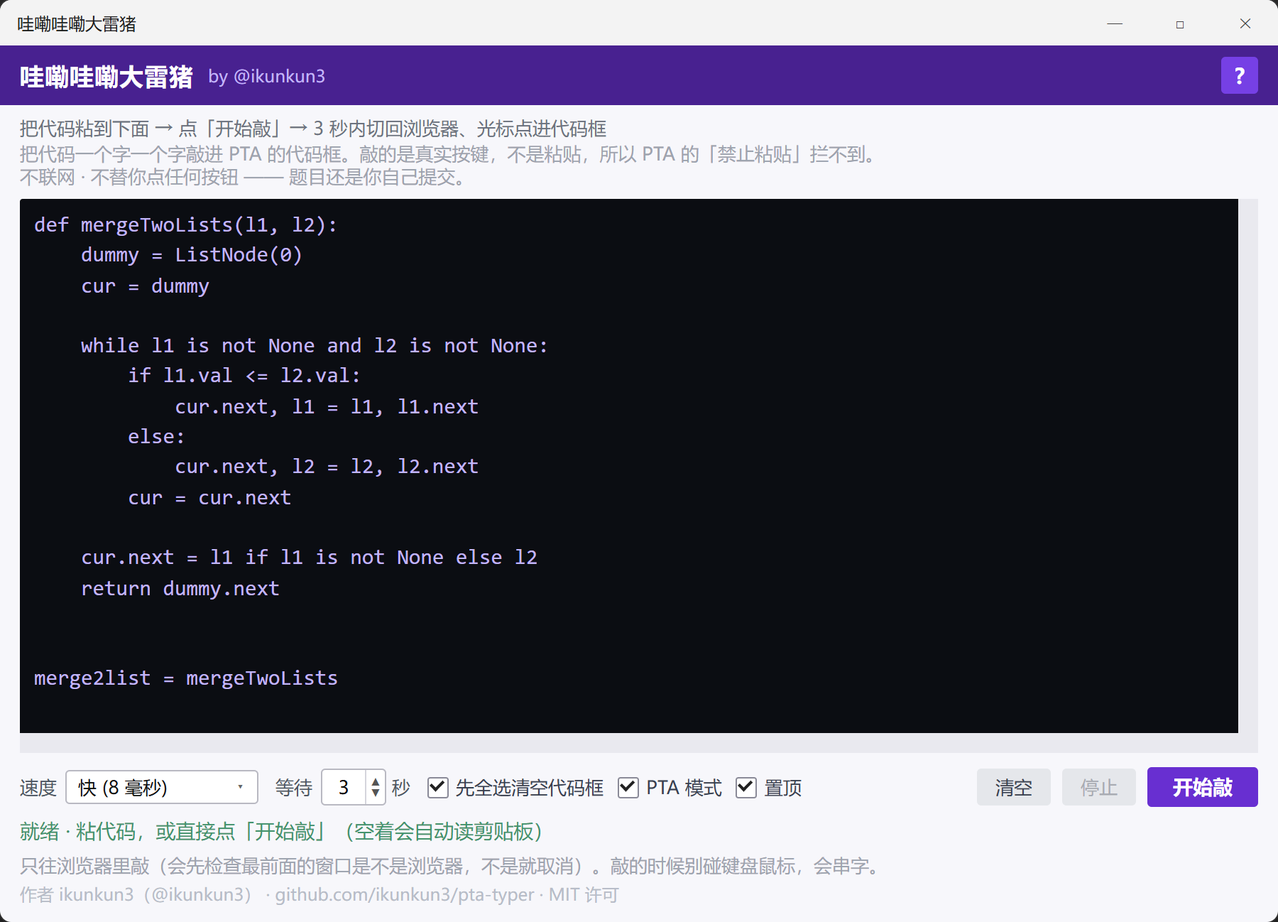
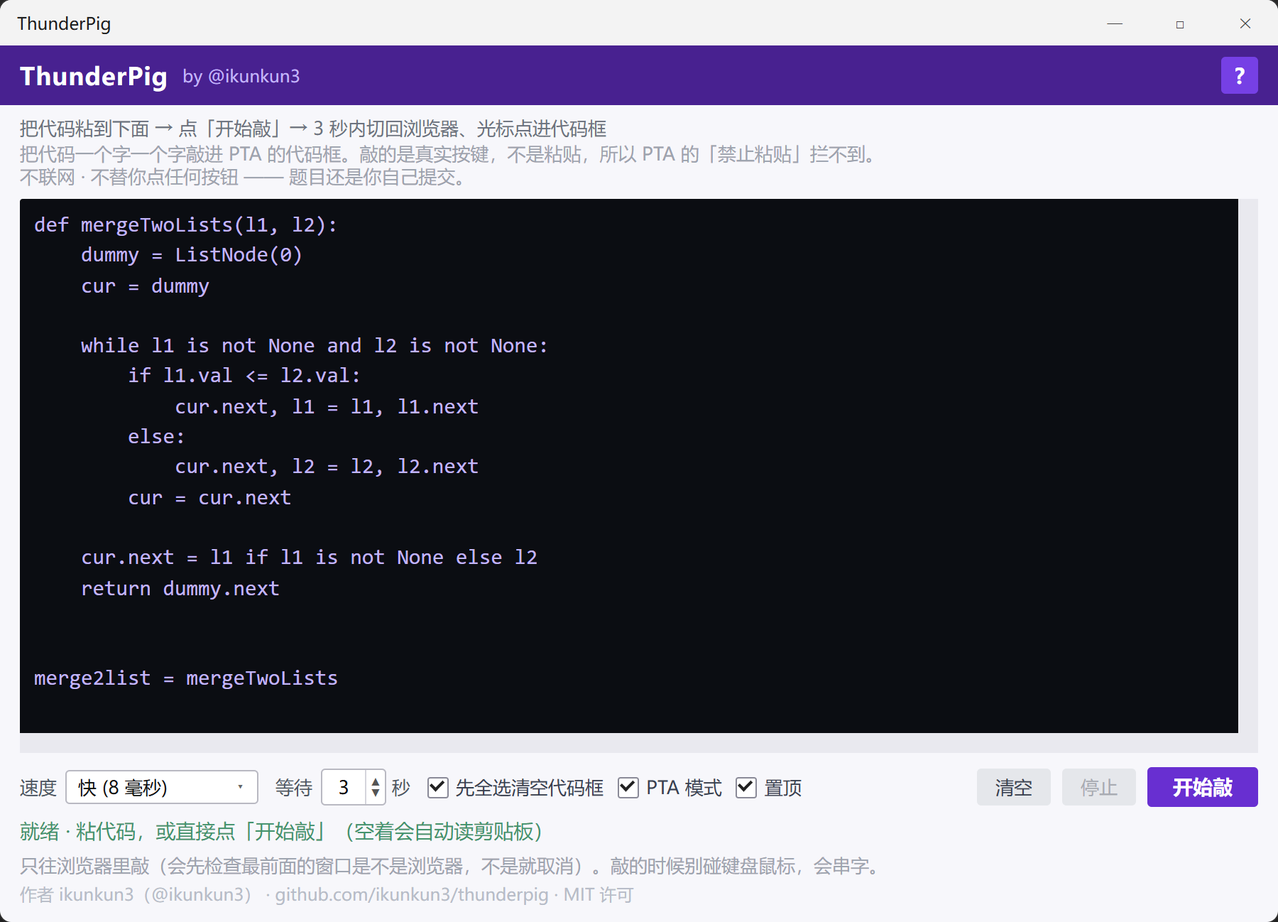
改名 ThunderPig：中文全名还是「哇嘞哇嘞大雷猪」
ThunderPig = 大雷（thunder）+ 猪（pig），照着念就是那个梗。

源码 / 脚本
- pta_typer_gui.py → thunderpig.py（APP_TITLE / CFG_DIR 改 ThunderPig）
- pta-typer.user.js → thunderpig.user.js（PANEL_ID / 存储键 / __THUNDERPIG__）
- 配置目录两级迁移：ThunderPig ← 哇嘞哇嘞大雷猪 ← PTA逐字输入
- 油猴 localStorage 老键 readStore() 回退搬迁，老用户不丢设置

界面 / 文档
- 窗口标题、卡片标题、? 帮助、底部署名全换
- 安装页 / 新手教程 / 两份说明 / 生成脚本里的名字与链接
- README 标题改成 ThunderPig · PTA 逐字输入，说明名字来历
- docs/exe-ui.source.html 重画并重截 exe-ui.png

契约 208 项 · 基线 611 项 · 夹具 26 / 23 全过

Changed region(s): [[0.0, 0.0616, 0.2489, 0.0924], [0.3422, 0.9553, 0.4978, 0.9861], [0.0, 0.0, 0.1244, 0.0308]]

diff --git a/安装书签.html b/安装书签.html
@@ -105,7 +105,7 @@ li b{color:var(--fg)}
 <div class="step">
   <h2><span class="n">2</span>把下面这个紫色按钮拖到书签栏上</h2>
   <p>按住它别松手，拖到刚才那条横栏上，然后松手。</p>
-  <p><a class="drag" href="javascript:void%28function%28%29%7B%28function%20%28%29%20%7B%0A%27use%20strict%27%3B%0Avar%20ID%20%3D%20%27pta-bm%27%3B%0Avar%20prev%20%3D%20document.getElementById%28ID%29%3B%0Aif%20%28prev%29%20%7B%20prev.parentNode.removeChild%28prev%29%3B%20return%3B%20%7D%0Avar%20P%20%3D%20%7B%0Apaste%3A%20%27%3Cpath%20d%3D%22M11%2014h10%22%2F%3E%3Cpath%20d%3D%22M16%204h2a2%202%200%200%201%202%202v1.344%22%2F%3E%27%0A%2B%20%27%3Cpath%20d%3D%22m17%2018%204-4-4-4%22%2F%3E%3Cpath%20d%3D%22M8%204H6a2%202%200%200%200-2%202v14a2%202%200%200%200%202%202%27%0A%2B%20%27h12a2%202%200%200%200%201.793-1.113%22%2F%3E%3Crect%20x%3D%228%22%20y%3D%222%22%20width%3D%228%22%20height%3D%224%22%20rx%3D%221%22%2F%3E%27%2C%0Aclose%3A%20%27%3Cpath%20d%3D%22M18%206%206%2018%22%2F%3E%3Cpath%20d%3D%22m6%206%2012%2012%22%2F%3E%27%2C%0Aok%3A%20%27%3Ccircle%20cx%3D%2212%22%20cy%3D%2212%22%20r%3D%2210%22%2F%3E%3Cpath%20d%3D%22m16%209-5.5%205.5L8%2012%22%2F%3E%27%2C%0Abad%3A%20%27%3Ccircle%20cx%3D%2212%22%20cy%3D%2212%22%20r%3D%2210%22%2F%3E%3Cline%20x1%3D%2212%22%20x2%3D%2212%22%20y1%3D%228%22%20y2%3D%2212%22%2F%3E%27%0A%2B%20%27%3Cline%20x1%3D%2212%22%20x2%3D%2212.01%22%20y1%3D%2216%22%20y2%3D%2216%22%2F%3E%27%2C%0Ainfo%3A%20%27%3Ccircle%20cx%3D%2212%22%20cy%3D%2212%22%20r%3D%2210%22%2F%3E%3Cpath%20d%3D%22M12%2016v-4%22%2F%3E%3Cpath%20d%3D%22M12%208h.01%22%2F%3E%27%2C%0Akey%3A%20%27%3Cpath%20d%3D%22M10%208h.01%22%2F%3E%3Cpath%20d%3D%22M12%2012h.01%22%2F%3E%3Cpath%20d%3D%22M14%208h.01%22%2F%3E%3Cpath%20d%3D%22M16%2012h.01%22%2F%3E%27%0A%2B%20%27%3Cpath%20d%3D%22M18%208h.01%22%2F%3E%3Cpath%20d%3D%22M6%208h.01%22%2F%3E%3Cpath%20d%3D%22M7%2016h10%22%2F%3E%3Cpath%20d%3D%22M8%2012h.01%22%2F%3E%27%0A%2B%20%27%3Crect%20width%3D%2220%22%20height%3D%2216%22%20x%3D%222%22%20y%3D%224%22%20rx%3D%222%22%2F%3E%27%0A%7D%3B%0Afunction%20svg%28d%2C%20size%29%20%7B%0Areturn%20%27%3Csvg%20viewBox%3D%220%200%2024%2024%22%20width%3D%22%27%20%2B%20size%20%2B%20%27%22%20height%3D%22%27%20%2B%20size%20%2B%20%27%22%20fill%3D%22none%22%20%27%0A%2B%20%27stroke%3D%22currentColor%22%20stroke-width%3D%222%22%20stroke-linecap%3D%22round%22%20stroke-linejoin%3D%22round%22%20%27%0A%2B%20%27aria-hidden%3D%22true%22%3E%27%20%2B%20d%20%2B%20%27%3C%2Fsvg%3E%27%3B%0A%7D%0Avar%20CSS%20%3D%20%5B%0A%27%23pta-bm%7Bposition%3Afixed%3Binset%3A0%3Bz-index%3A2147483000%3Bdisplay%3Aflex%3Balign-items%3Acenter%3B%27%2C%0A%27justify-content%3Acenter%3Bbackground%3Argba%288%2C8%2C14%2C.66%29%3B-webkit-backdrop-filter%3Ablur%287px%29%3B%27%2C%0A%27backdrop-filter%3Ablur%287px%29%3Banimation%3Apta-bm-in%20.16s%20ease-out%7D%27%2C%0A%27%23pta-bm%20.box%7Bposition%3Arelative%3Bwidth%3A780px%3Bmax-width%3A92vw%3Boverflow%3Ahidden%3B%27%2C%0A%27background%3Alinear-gradient%28180deg%2C%23201748%200%25%2C%23160f30%2062%25%2C%23120c28%20100%25%29%3B%27%2C%0A%27border%3A1px%20solid%20rgba%28139%2C92%2C246%2C.42%29%3Bborder-radius%3A18px%3B%27%2C%0A%27box-shadow%3A0%2032px%2080px%20-12px%20rgba%280%2C0%2C0%2C.8%29%2C0%200%200%201px%20rgba%28255%2C255%2C255%2C.04%29%20inset%2C%27%2C%0A%270%201px%200%20rgba%28255%2C255%2C255%2C.09%29%20inset%3B%27%2C%0A%27font%3A14px%2F1.62%20%22Microsoft%20YaHei%22%2Csystem-ui%2C-apple-system%2Csans-serif%3Bcolor%3A%23ece7ff%3B%27%2C%0A%27animation%3Apta-bm-pop%20.18s%20cubic-bezier%28.2%2C.9%2C.3%2C1.1%29%7D%27%2C%0A%27%23pta-bm%20.box%3A%3Abefore%7Bcontent%3A%22%22%3Bposition%3Aabsolute%3Bleft%3A0%3Bright%3A0%3Btop%3A0%3Bheight%3A2px%3B%27%2C%0A%27background%3Alinear-gradient%2890deg%2C%237c3aed%2C%23a78bfa%2042%25%2C%2322d3ee%20100%25%29%3Bopacity%3A.95%7D%27%2C%0A%27%23pta-bm%20.hd%7Bdisplay%3Aflex%3Balign-items%3Acenter%3Bgap%3A11px%3Bpadding%3A15px%2015px%2012px%2016px%7D%27%2C%0A%27%23pta-bm%20.ico%7Bdisplay%3Aflex%3Balign-items%3Acenter%3Bjustify-content%3Acenter%3Bflex%3A0%200%2036px%3B%27%2C%0A%27width%3A36px%3Bheight%3A36px%3Bborder-radius%3A11px%3Bcolor%3A%23fff%3B%27%2C%0A%27background%3Alinear-gradient%28145deg%2C%238b5cf6%2C%236d28d9%29%3B%27%2C%0A%27box-shadow%3A0%206px%2016px%20-4px%20rgba%28124%2C58%2C237%2C.75%29%2C0%201px%200%20rgba%28255%2C255%2C255%2C.28%29%20inset%7D%27%2C%0A%27%23pta-bm%20.ttl%7Bflex%3A1%3Bmin-width%3A0%7D%27%2C%0A%27%23pta-bm%20.ttl%20b%7Bdisplay%3Ablock%3Bfont-size%3A15px%3Bline-height%3A1.3%3Bfont-weight%3A600%3B%27%2C%0A%27letter-spacing%3A.2px%3Bcolor%3A%23f4f0ff%7D%27%2C%0A%27%23pta-bm%20.ttl%20i%7Bdisplay%3Ablock%3Bfont-style%3Anormal%3Bfont-size%3A11.5px%3Bline-height%3A1.4%3B%27%2C%0A%27color%3A%239b93c4%3Bmargin-top%3A2px%3Bwhite-space%3Anowrap%3Boverflow%3Ahidden%3Btext-overflow%3Aellipsis%7D%27%2C%0A%27%23pta-bm%20.x%7Bdisplay%3Aflex%3Balign-items%3Acenter%3Bjustify-content%3Acenter%3Bflex%3A0%200%2030px%3B%27%2C%0A%27width%3A30px%3Bheight%3A30px%3Bpadding%3A0%3Bborder%3A0%3Bborder-radius%3A9px%3Bcursor%3Apointer%3B%27%2C%0A%27background%3Argba%28255%2C255%2C255%2C.05%29%3Bcolor%3A%23b9b1de%3Btransition%3Abackground%20.14s%2Ccolor%20.14s%7D%27%2C%0A%27%23pta-bm%20.x%3Ahover%7Bbackground%3Argba%28255%2C255%2C255%2C.12%29%3Bcolor%3A%23fff%7D%27%2C%0A%27%23pta-bm%20textarea%7Bdisplay%3Ablock%3Bwidth%3Acalc%28100%25%20-%2032px%29%3Bmargin%3A0%2016px%3Bheight%3A40vh%3B%27%2C%0A%27min-height%3A180px%3Bbox-sizing%3Aborder-box%3Bpadding%3A12px%2013px%3Bresize%3Avertical%3Boutline%3Anone%3B%27%2C%0A%27background%3A%230a0c12%3Bcolor%3A%23c9bbff%3Bborder%3A1px%20solid%20%23362a63%3Bborder-radius%3A12px%3B%27%2C%0A%27font%3A13px%2F1.62%20Consolas%2C%22Cascadia%20Mono%22%2Cmonospace%3B%27%2C%0A%27box-shadow%3A0%201px%200%20rgba%28255%2C255%2C255%2C.04%29%20inset%2C0%2010px%2026px%20-18px%20%23000%20inset%3B%27%2C%0A%27transition%3Aborder-color%20.14s%2Cbox-shadow%20.14s%7D%27%2C%0A%27%23pta-bm%20textarea%3A%3Aplaceholder%7Bcolor%3A%23635c86%7D%27%2C%0A%27%23pta-bm%20textarea%3Afocus%7Bborder-color%3A%238b5cf6%3B%27%2C%0A%27box-shadow%3A0%200%200%203px%20rgba%28124%2C58%2C237%2C.22%29%2C0%2010px%2026px%20-18px%20%23000%20inset%7D%27%2C%0A%27%23pta-bm%20.row%7Bdisplay%3Aflex%3Balign-items%3Acenter%3Bgap%3A10px%3Bflex-wrap%3Awrap%3Bpadding%3A12px%2016px%200%7D%27%2C%0A%27%23pta-bm%20button%7Bfont%3Ainherit%7D%27%2C%0A%27%23pta-bm%20.go%7Bdisplay%3Ainline-flex%3Balign-items%3Acenter%3Bgap%3A7px%3Bborder%3A0%3Bcursor%3Apointer%3B%27%2C%0A%27padding%3A9px%2017px%209px%2014px%3Bborder-radius%3A10px%3Bfont-size%3A14px%3Bfont-weight%3A600%3Bcolor%3A%23fff%3B%27%2C%0A%27background%3Alinear-gradient%28180deg%2C%238b5cf6%2C%237134e0%29%3B%27%2C%0A%27box-shadow%3A0%206px%2016px%20-6px%20rgba%28124%2C58%2C237%2C.9%29%2C0%201px%200%20rgba%28255%2C255%2C255%2C.3%29%20inset%3B%27%2C%0A%27transition%3Atransform%20.1s%2Cbox-shadow%20.14s%2Cfilter%20.14s%7D%27%2C%0A%27%23pta-bm%20.go%3Ahover%7Bfilter%3Abrightness%281.08%29%3Bbox-shadow%3A0%208px%2022px%20-6px%20rgba%28124%2C58%2C237%2C1%29%2C%27%2C%0A%270%201px%200%20rgba%28255%2C255%2C255%2C.32%29%20inset%7D%27%2C%0A%27%23pta-bm%20.go%3Aactive%7Btransform%3AtranslateY%281px%29%7D%27%2C%0A%27%23pta-bm%20.go%20svg%7Bopacity%3A.95%7D%27%2C%0A%27%23pta-bm%20.kbd%7Bdisplay%3Ainline-flex%3Balign-items%3Acenter%3Bgap%3A6px%3Bpadding%3A5px%2010px%3B%27%2C%0A%27border-radius%3A8px%3Bbackground%3Argba%28255%2C255%2C255%2C.055%29%3Bborder%3A1px%20solid%20rgba%28255%2C255%2C255%2C.08%29%3B%27%2C%0A%27color%3A%23a9a1cf%3Bfont-size%3A11.5px%3Bwhite-space%3Anowrap%7D%27%2C%0A%27%23pta-bm%20.kbd%20code%7Bfont%3A11.5px%20Consolas%2Cmonospace%3Bcolor%3A%23d6ccff%7D%27%2C%0A%27%23pta-bm%20.hint%7Bcolor%3A%237b749c%3Bfont-size%3A11.5px%3Bmargin-left%3Aauto%3Bwhite-space%3Anowrap%7D%27%2C%0A%27%23pta-bm%20.st%7Bdisplay%3Aflex%3Balign-items%3Acenter%3Bgap%3A7px%3Bmargin%3A10px%2016px%2014px%3Bpadding%3A9px%2012px%3B%27%2C%0A%27border-radius%3A10px%3Bfont-size%3A12px%3Bline-height%3A1.5%3Bcolor%3A%23a49cc6%3B%27%2C%0A%27background%3Argba%28255%2C255%2C255%2C.04%29%3Bborder%3A1px%20solid%20rgba%28255%2C255%2C255%2C.06%29%3B%27%2C%0A%27transition%3Acolor%20.14s%2Cbackground%20.14s%2Cborder-color%20.14s%7D%27%2C%0A%27%23pta-bm%20.st%20svg%7Bflex%3A0%200%2015px%3Bwidth%3A15px%3Bheight%3A15px%7D%27%2C%0A%27%23pta-bm%20.stx%7Bmin-width%3A0%7D%27%2C%0A%27%23pta-bm%20.st.ok%7Bcolor%3A%236ee7b7%3Bbackground%3Argba%2816%2C185%2C129%2C.11%29%3Bborder-color%3Argba%2816%2C185%2C129%2C.3%29%7D%27%2C%0A%27%23pta-bm%20.st.bad%7Bcolor%3A%23fca5a5%3Bbackground%3Argba%28239%2C68%2C68%2C.11%29%3Bborder-color%3Argba%28239%2C68%2C68%2C.3%29%7D%27%2C%0A%27%23pta-bm%20.crd%7Bpadding%3A0%2016px%2012px%3Bfont-size%3A11px%3Bcolor%3A%235e5880%3Bletter-spacing%3A.2px%7D%27%2C%0A%27%23pta-bm%20.crd%20b%7Bcolor%3A%238b83b5%3Bfont-weight%3A600%7D%27%2C%0A%27%40keyframes%20pta-bm-in%7Bfrom%7Bopacity%3A0%7Dto%7Bopacity%3A1%7D%7D%27%2C%0A%27%40keyframes%20pta-bm-pop%7Bfrom%7Bopacity%3A0%3Btransform%3AtranslateY%2810px%29%20scale%28.985%29%7D%27%2C%0A%27to%7Bopacity%3A1%3Btransform%3Anone%7D%7D%27%2C%0A%27%40media%20%28prefers-reduced-motion%3Areduce%29%7B%23pta-bm%2C%23pta-bm%20.box%7Banimation%3Anone%7D%7D%27%0A%5D.join%28%27%27%29%3B%0Aif%20%28%21document.getElementById%28%27pta-bm-style%27%29%29%20%7B%0Avar%20style%20%3D%20document.createElement%28%27style%27%29%3B%0Astyle.id%20%3D%20%27pta-bm-style%27%3B%0Astyle.textContent%20%3D%20CSS%3B%0Adocument.head.appendChild%28style%29%3B%0A%7D%0Avar%20wrap%20%3D%20document.createElement%28%27div%27%29%3B%0Awrap.id%20%3D%20ID%3B%0Awrap.setAttribute%28%27role%27%2C%20%27dialog%27%29%3B%0Awrap.setAttribute%28%27aria-label%27%2C%20%27%E6%8A%8A%E4%BB%A3%E7%A0%81%E5%86%99%E8%BF%9B%20PTA%20%E4%BB%A3%E7%A0%81%E6%A1%86%27%29%3B%0Awrap.innerHTML%20%3D%20%27%3Cdiv%20class%3D%22box%22%3E%27%0A%2B%20%27%3Cdiv%20class%3D%22hd%22%3E%3Cspan%20class%3D%22ico%22%3E%27%20%2B%20svg%28P.paste%2C%2019%29%20%2B%20%27%3C%2Fspan%3E%27%0A%2B%20%27%3Cdiv%20class%3D%22ttl%22%3E%3Cb%3EPTA%20%E9%80%90%E5%AD%97%E8%BE%93%E5%85%A5%3C%2Fb%3E%3Ci%3E%E6%8A%8A%E4%BB%A3%E7%A0%81%E7%B2%98%E8%BF%9B%E6%9D%A5%EF%BC%8C%E5%AE%83%E6%9B%BF%E4%BD%A0%E4%B8%80%E4%B8%AA%E5%AD%97%E4%B8%80%E4%B8%AA%E5%AD%97%E5%86%99%E8%BF%9B%E5%8E%BB%3C%2Fi%3E%3C%2Fdiv%3E%27%0A%2B%20%27%3Cbutton%20class%3D%22x%22%20type%3D%22button%22%20title%3D%22%E5%85%B3%E9%97%AD%EF%BC%88Esc%EF%BC%89%22%3E%27%20%2B%20svg%28P.close%2C%2016%29%20%2B%20%27%3C%2Fbutton%3E%3C%2Fdiv%3E%27%0A%2B%20%27%3Ctextarea%20spellcheck%3D%22false%22%20placeholder%3D%22%E6%8A%8A%E4%BB%A3%E7%A0%81%E7%B2%98%E5%88%B0%E8%BF%99%E9%87%8C%EF%BC%88Ctrl%2BV%EF%BC%89%EF%BC%8C%E7%84%B6%E5%90%8E%E6%8C%89%20Ctrl%2BEnter%22%3E%3C%2Ftextarea%3E%27%0A%2B%20%27%3Cdiv%20class%3D%22row%22%3E%3Cbutton%20class%3D%22go%22%20type%3D%22button%22%3E%27%20%2B%20svg%28P.paste%2C%2015%29%20%2B%20%27%E5%86%99%E8%BF%9B%E4%BB%A3%E7%A0%81%E6%A1%86%3C%2Fbutton%3E%27%0A%2B%20%27%3Cspan%20class%3D%22kbd%22%3E%27%20%2B%20svg%28P.key%2C%2013%29%20%2B%20%27%3Ccode%3ECtrl%3C%2Fcode%3E%2B%3Ccode%3EEnter%3C%2Fcode%3E%3C%2Fspan%3E%27%0A%2B%20%27%3Cspan%20class%3D%22hint%22%3E%E5%8F%AA%E5%86%99%E5%AD%97%EF%BC%8C%E4%B8%8D%E7%82%B9%E4%BF%9D%E5%AD%98%E3%80%81%E4%B8%8D%E7%82%B9%E6%8F%90%E4%BA%A4%3C%2Fspan%3E%3C%2Fdiv%3E%27%0A%2B%20%27%3Cdiv%20class%3D%22st%22%3E%3Cspan%20class%3D%22sic%22%3E%27%20%2B%20svg%28P.info%2C%2015%29%20%2B%20%27%3C%2Fspan%3E%27%0A%2B%20%27%3Cspan%20class%3D%22stx%22%3E%E7%B2%98%E5%AE%8C%E6%8C%89%20Ctrl%2BEnter%20%E7%9B%B4%E6%8E%A5%E5%86%99%3C%2Fspan%3E%3C%2Fdiv%3E%27%0A%2B%20%27%3Cdiv%20class%3D%22crd%22%3Eby%20%3Cb%3E%40ikunkun3%3C%2Fb%3E%20%C2%B7%20MIT%20%C2%B7%20github.com%2Fikunkun3%2Fpta-typer%3C%2Fdiv%3E%27%0A%2B%20%27%3C%2Fdiv%3E%27%3B%0Adocument.body.appendChild%28wrap%29%3B%0Avar%20ta%20%3D%20wrap.querySelector%28%27textarea%27%29%3B%0Avar%20status%20%3D%20wrap.querySelector%28%27.st%27%29%3B%0Avar%20statusIco%20%3D%20wrap.querySelector%28%27.sic%27%29%3B%0Avar%20statusTxt%20%3D%20wrap.querySelector%28%27.stx%27%29%3B%0Afunction%20say%28text%2C%20cls%29%20%7B%0AstatusTxt.textContent%20%3D%20text%3B%0Astatus.className%20%3D%20%27st%27%20%2B%20%28cls%20%3F%20%27%20%27%20%2B%20cls%20%3A%20%27%27%29%3B%0AstatusIco.innerHTML%20%3D%20svg%28cls%20%3D%3D%3D%20%27ok%27%20%3F%20P.ok%20%3A%20cls%20%3D%3D%3D%20%27bad%27%20%3F%20P.bad%20%3A%20P.info%2C%2015%29%3B%0A%7D%0Afunction%20close%28%29%20%7B%20if%20%28wrap.parentNode%29%20wrap.parentNode.removeChild%28wrap%29%3B%20%7D%0Afunction%20findEditor%28%29%20%7B%0Avar%20all%20%3D%20%5B%5D.slice.call%28document.querySelectorAll%28%27.cm-content%5Bcontenteditable%3D%22true%22%5D%27%29%29%3B%0Afor%20%28var%20i%20%3D%200%3B%20i%20%3C%20all.length%3B%20i%2B%2B%29%20%7B%0Avar%20c%20%3D%20all%5Bi%5D%3B%0Aif%20%28c.closest%28%27%23%27%20%2B%20ID%29%29%20continue%3B%0Aif%20%28%21c.getBoundingClientRect%28%29.width%29%20continue%3B%0Aif%20%28c.closest%28%27%5Bclass%2A%3D%22AnswerForm%22%5D%27%29%29%20return%20c%3B%0A%7D%0Avar%20areas%20%3D%20%5B%5D.slice.call%28document.querySelectorAll%28%27%5Bclass%2A%3D%22AnswerForm%22%5D%20textarea%27%29%29%3B%0Afor%20%28var%20j%20%3D%200%3B%20j%20%3C%20areas.length%3B%20j%2B%2B%29%20%7B%0Aif%20%28%21areas%5Bj%5D.closest%28%27%23%27%20%2B%20ID%29%29%20return%20areas%5Bj%5D%3B%0A%7D%0Areturn%20null%3B%0A%7D%0Afunction%20viewOf%28c%29%20%7B%0Aif%20%28c.cmTile%20%26%26%20c.cmTile.view%29%20return%20c.cmTile.view%3B%0Aif%20%28c.cmView%20%26%26%20c.cmView.view%29%20return%20c.cmView.view%3B%0Areturn%20null%3B%0A%7D%0Afunction%20writeByExec%28c%2C%20code%29%20%7B%0Ac.focus%28%29%3B%0Aexecute%28%27selectAll%27%29%3B%0Adocument.execCommand%28%27delete%27%2C%20false%2C%20null%29%3B%0Avar%20lines%20%3D%20code.split%28%27%5Cn%27%29%3B%0Awhile%20%28lines.length%20%3E%201%20%26%26%20lines%5Blines.length%20-%201%5D%20%3D%3D%3D%20%27%27%29%20lines.pop%28%29%3B%0Afor%20%28var%20i%20%3D%200%3B%20i%20%3C%20lines.length%3B%20i%2B%2B%29%20%7B%0Aif%20%28i%29%20%7B%0Aif%20%28%21document.execCommand%28%27insertLineBreak%27%2C%20false%2C%20null%29%29%20%7B%0Adocument.execCommand%28%27insertParagraph%27%2C%20false%2C%20null%29%3B%0A%7D%0A%7D%0Aif%20%28lines%5Bi%5D%29%20document.execCommand%28%27insertText%27%2C%20false%2C%20lines%5Bi%5D%29%3B%0A%7D%0Ac.dispatchEvent%28new%20Event%28%27input%27%2C%20%7B%20bubbles%3A%20true%20%7D%29%29%3B%0Areturn%20c.textContent%20%7C%7C%20%27%27%3B%0A%7D%0Afunction%20execute%28cmd%29%20%7B%0Atry%20%7B%20document.execCommand%28cmd%2C%20false%2C%20null%29%3B%20%7D%20catch%20%28e%29%20%7B%20%20%7D%0A%7D%0Afunction%20norm%28s%29%20%7B%0Areturn%20String%28s%20%7C%7C%20%27%27%29%0A.replace%28%2F%5Cr%5Cn%3F%2Fg%2C%20%27%5Cn%27%29%0A.replace%28%2F%5B%5Cu00a0%5Cu2007%5Cu202f%5D%2Fg%2C%20%27%20%27%29%0A.split%28%27%5Cn%27%29.map%28function%20%28l%29%20%7B%20return%20l.replace%28%2F%5Cs%2B%24%2F%2C%20%27%27%29%3B%20%7D%29%0A.join%28%27%5Cn%27%29.replace%28%2F%5Cn%7B2%2C%7D%24%2F%2C%20%27%5Cn%27%29.replace%28%2F%5E%5Cn%2B%7C%5Cn%2B%24%2Fg%2C%20%27%27%29%3B%0A%7D%0Afunction%20write%28code%29%20%7B%0Acode%20%3D%20String%28code%20%7C%7C%20%27%27%29.replace%28%2F%5Cr%5Cn%3F%2Fg%2C%20%27%5Cn%27%29%3B%0Aif%20%28%21code.trim%28%29%29%20%7B%20say%28%27%E6%A1%86%E9%87%8C%E6%98%AF%E7%A9%BA%E7%9A%84%27%2C%20%27bad%27%29%3B%20return%3B%20%7D%0Avar%20c%20%3D%20findEditor%28%29%3B%0Aif%20%28%21c%29%20%7B%20say%28%27%E6%B2%A1%E6%89%BE%E5%88%B0%E4%BB%A3%E7%A0%81%E6%A1%86%20%E2%80%94%E2%80%94%20%E5%85%88%E6%89%93%E5%BC%80%E4%B8%80%E9%81%93%E7%BC%96%E7%A8%8B%E9%A2%98%EF%BC%88%E5%87%BD%E6%95%B0%E9%A2%98%EF%BC%89%27%2C%20%27bad%27%29%3B%20return%3B%20%7D%0Avar%20view%20%3D%20viewOf%28c%29%3B%0Aif%20%28view%29%20%7B%0Aview.dispatch%28%7B%20changes%3A%20%7B%20from%3A%200%2C%20to%3A%20view.state.doc.length%2C%20insert%3A%20code%20%7D%20%7D%29%3B%0Avar%20got%20%3D%20view.state.doc.toString%28%29%3B%0Aif%20%28norm%28got%29%20%3D%3D%3D%20norm%28code%29%29%20%7B%0Asay%28%27%E2%9C%93%20%E5%B7%B2%E5%86%99%E5%85%A5%20%27%20%2B%20code.length%20%2B%20%27%20%E4%B8%AA%E5%AD%97%E7%AC%A6%EF%BC%88CodeMirror%EF%BC%89%27%2C%20%27ok%27%29%3B%0Areturn%3B%0A%7D%0A%7D%0Avar%20dom%20%3D%20writeByExec%28c%2C%20code%29%3B%0Aif%20%28norm%28dom%29%20%3D%3D%3D%20norm%28code%29%29%20%7B%0Asay%28%27%E2%9C%93%20%E5%B7%B2%E5%86%99%E5%85%A5%20%27%20%2B%20code.length%20%2B%20%27%20%E4%B8%AA%E5%AD%97%E7%AC%A6%EF%BC%88%E7%BC%96%E8%BE%91%E5%99%A8%E5%85%9C%E5%BA%95%EF%BC%89%27%2C%20%27ok%27%29%3B%0Areturn%3B%0A%7D%0Asay%28%27%E5%86%99%E8%BF%9B%E5%8E%BB%E4%BA%86%E4%BD%86%E8%AF%BB%E5%9B%9E%E6%9D%A5%E5%AF%B9%E4%B8%8D%E4%B8%8A%EF%BC%8C%E8%AF%B7%E8%87%AA%E5%B7%B1%E7%9C%8B%E4%B8%80%E7%9C%BC%E4%BB%A3%E7%A0%81%E6%A1%86%EF%BC%88%27%20%2B%20norm%28dom%29.length%20%2B%20%27%2F%27%20%2B%20norm%28code%29.length%20%2B%20%27%EF%BC%89%27%2C%20%27bad%27%29%3B%0A%7D%0Awrap.querySelector%28%27.go%27%29.onclick%20%3D%20function%20%28%29%20%7B%20write%28ta.value%29%3B%20%7D%3B%0Awrap.querySelector%28%27.x%27%29.onclick%20%3D%20close%3B%0Awrap.onclick%20%3D%20function%20%28e%29%20%7B%20if%20%28e.target%20%3D%3D%3D%20wrap%29%20close%28%29%3B%20%7D%3B%0Ata.addEventListener%28%27keydown%27%2C%20function%20%28e%29%20%7B%0Aif%20%28e.key%20%3D%3D%3D%20%27Enter%27%20%26%26%20%28e.ctrlKey%20%7C%7C%20e.metaKey%29%29%20%7B%0Ae.preventDefault%28%29%3B%0Awrite%28ta.value%29%3B%0A%7D%0A%7D%29%3B%0Adocument.addEventListener%28%27keydown%27%2C%20function%20esc%28e%29%20%7B%0Aif%20%28e.key%20%3D%3D%3D%20%27Escape%27%20%26%26%20wrap.parentNode%29%20%7B%0Adocument.removeEventListener%28%27keydown%27%2C%20esc%29%3B%0Aclose%28%29%3B%0A%7D%0A%7D%29%3B%0Ata.focus%28%29%3B%0A%7D%29%28%29%3B%0A%7D%29%28%29" draggable="true" onclick="return false"><svg class="i" viewBox="0 0 24 24" width="19" height="19" fill="none" stroke="currentColor" stroke-width="2" stroke-linecap="round" stroke-linejoin="round" aria-hidden="true"><rect width="8" height="4" x="8" y="2" rx="1" ry="1"/><path d="M16 4h2a2 2 0 0 1 2 2v14a2 2 0 0 1-2 2H6a2 2 0 0 1-2-2V6a2 2 0 0 1 2-2h2"/><path d="m9 14 2 2 4-4"/></svg>写代码</a></p>
+  <p><a class="drag" href="javascript:void%28function%28%29%7B%28function%20%28%29%20%7B%0A%27use%20strict%27%3B%0Avar%20ID%20%3D%20%27pta-bm%27%3B%0Avar%20prev%20%3D%20document.getElementById%28ID%29%3B%0Aif%20%28prev%29%20%7B%20prev.parentNode.removeChild%28prev%29%3B%20return%3B%20%7D%0Avar%20P%20%3D%20%7B%0Apaste%3A%20%27%3Cpath%20d%3D%22M11%2014h10%22%2F%3E%3Cpath%20d%3D%22M16%204h2a2%202%200%200%201%202%202v1.344%22%2F%3E%27%0A%2B%20%27%3Cpath%20d%3D%22m17%2018%204-4-4-4%22%2F%3E%3Cpath%20d%3D%22M8%204H6a2%202%200%200%200-2%202v14a2%202%200%200%200%202%202%27%0A%2B%20%27h12a2%202%200%200%200%201.793-1.113%22%2F%3E%3Crect%20x%3D%228%22%20y%3D%222%22%20width%3D%228%22%20height%3D%224%22%20rx%3D%221%22%2F%3E%27%2C%0Aclose%3A%20%27%3Cpath%20d%3D%22M18%206%206%2018%22%2F%3E%3Cpath%20d%3D%22m6%206%2012%2012%22%2F%3E%27%2C%0Aok%3A%20%27%3Ccircle%20cx%3D%2212%22%20cy%3D%2212%22%20r%3D%2210%22%2F%3E%3Cpath%20d%3D%22m16%209-5.5%205.5L8%2012%22%2F%3E%27%2C%0Abad%3A%20%27%3Ccircle%20cx%3D%2212%22%20cy%3D%2212%22%20r%3D%2210%22%2F%3E%3Cline%20x1%3D%2212%22%20x2%3D%2212%22%20y1%3D%228%22%20y2%3D%2212%22%2F%3E%27%0A%2B%20%27%3Cline%20x1%3D%2212%22%20x2%3D%2212.01%22%20y1%3D%2216%22%20y2%3D%2216%22%2F%3E%27%2C%0Ainfo%3A%20%27%3Ccircle%20cx%3D%2212%22%20cy%3D%2212%22%20r%3D%2210%22%2F%3E%3Cpath%20d%3D%22M12%2016v-4%22%2F%3E%3Cpath%20d%3D%22M12%208h.01%22%2F%3E%27%2C%0Akey%3A%20%27%3Cpath%20d%3D%22M10%208h.01%22%2F%3E%3Cpath%20d%3D%22M12%2012h.01%22%2F%3E%3Cpath%20d%3D%22M14%208h.01%22%2F%3E%3Cpath%20d%3D%22M16%2012h.01%22%2F%3E%27%0A%2B%20%27%3Cpath%20d%3D%22M18%208h.01%22%2F%3E%3Cpath%20d%3D%22M6%208h.01%22%2F%3E%3Cpath%20d%3D%22M7%2016h10%22%2F%3E%3Cpath%20d%3D%22M8%2012h.01%22%2F%3E%27%0A%2B%20%27%3Crect%20width%3D%2220%22%20height%3D%2216%22%20x%3D%222%22%20y%3D%224%22%20rx%3D%222%22%2F%3E%27%0A%7D%3B%0Afunction%20svg%28d%2C%20size%29%20%7B%0Areturn%20%27%3Csvg%20viewBox%3D%220%200%2024%2024%22%20width%3D%22%27%20%2B%20size%20%2B%20%27%22%20height%3D%22%27%20%2B%20size%20%2B%20%27%22%20fill%3D%22none%22%20%27%0A%2B%20%27stroke%3D%22currentColor%22%20stroke-width%3D%222%22%20stroke-linecap%3D%22round%22%20stroke-linejoin%3D%22round%22%20%27%0A%2B%20%27aria-hidden%3D%22true%22%3E%27%20%2B%20d%20%2B%20%27%3C%2Fsvg%3E%27%3B%0A%7D%0Avar%20CSS%20%3D%20%5B%0A%27%23pta-bm%7Bposition%3Afixed%3Binset%3A0%3Bz-index%3A2147483000%3Bdisplay%3Aflex%3Balign-items%3Acenter%3B%27%2C%0A%27justify-content%3Acenter%3Bbackground%3Argba%288%2C8%2C14%2C.66%29%3B-webkit-backdrop-filter%3Ablur%287px%29%3B%27%2C%0A%27backdrop-filter%3Ablur%287px%29%3Banimation%3Apta-bm-in%20.16s%20ease-out%7D%27%2C%0A%27%23pta-bm%20.box%7Bposition%3Arelative%3Bwidth%3A780px%3Bmax-width%3A92vw%3Boverflow%3Ahidden%3B%27%2C%0A%27background%3Alinear-gradient%28180deg%2C%23201748%200%25%2C%23160f30%2062%25%2C%23120c28%20100%25%29%3B%27%2C%0A%27border%3A1px%20solid%20rgba%28139%2C92%2C246%2C.42%29%3Bborder-radius%3A18px%3B%27%2C%0A%27box-shadow%3A0%2032px%2080px%20-12px%20rgba%280%2C0%2C0%2C.8%29%2C0%200%200%201px%20rgba%28255%2C255%2C255%2C.04%29%20inset%2C%27%2C%0A%270%201px%200%20rgba%28255%2C255%2C255%2C.09%29%20inset%3B%27%2C%0A%27font%3A14px%2F1.62%20%22Microsoft%20YaHei%22%2Csystem-ui%2C-apple-system%2Csans-serif%3Bcolor%3A%23ece7ff%3B%27%2C%0A%27animation%3Apta-bm-pop%20.18s%20cubic-bezier%28.2%2C.9%2C.3%2C1.1%29%7D%27%2C%0A%27%23pta-bm%20.box%3A%3Abefore%7Bcontent%3A%22%22%3Bposition%3Aabsolute%3Bleft%3A0%3Bright%3A0%3Btop%3A0%3Bheight%3A2px%3B%27%2C%0A%27background%3Alinear-gradient%2890deg%2C%237c3aed%2C%23a78bfa%2042%25%2C%2322d3ee%20100%25%29%3Bopacity%3A.95%7D%27%2C%0A%27%23pta-bm%20.hd%7Bdisplay%3Aflex%3Balign-items%3Acenter%3Bgap%3A11px%3Bpadding%3A15px%2015px%2012px%2016px%7D%27%2C%0A%27%23pta-bm%20.ico%7Bdisplay%3Aflex%3Balign-items%3Acenter%3Bjustify-content%3Acenter%3Bflex%3A0%200%2036px%3B%27%2C%0A%27width%3A36px%3Bheight%3A36px%3Bborder-radius%3A11px%3Bcolor%3A%23fff%3B%27%2C%0A%27background%3Alinear-gradient%28145deg%2C%238b5cf6%2C%236d28d9%29%3B%27%2C%0A%27box-shadow%3A0%206px%2016px%20-4px%20rgba%28124%2C58%2C237%2C.75%29%2C0%201px%200%20rgba%28255%2C255%2C255%2C.28%29%20inset%7D%27%2C%0A%27%23pta-bm%20.ttl%7Bflex%3A1%3Bmin-width%3A0%7D%27%2C%0A%27%23pta-bm%20.ttl%20b%7Bdisplay%3Ablock%3Bfont-size%3A15px%3Bline-height%3A1.3%3Bfont-weight%3A600%3B%27%2C%0A%27letter-spacing%3A.2px%3Bcolor%3A%23f4f0ff%7D%27%2C%0A%27%23pta-bm%20.ttl%20i%7Bdisplay%3Ablock%3Bfont-style%3Anormal%3Bfont-size%3A11.5px%3Bline-height%3A1.4%3B%27%2C%0A%27color%3A%239b93c4%3Bmargin-top%3A2px%3Bwhite-space%3Anowrap%3Boverflow%3Ahidden%3Btext-overflow%3Aellipsis%7D%27%2C%0A%27%23pta-bm%20.x%7Bdisplay%3Aflex%3Balign-items%3Acenter%3Bjustify-content%3Acenter%3Bflex%3A0%200%2030px%3B%27%2C%0A%27width%3A30px%3Bheight%3A30px%3Bpadding%3A0%3Bborder%3A0%3Bborder-radius%3A9px%3Bcursor%3Apointer%3B%27%2C%0A%27background%3Argba%28255%2C255%2C255%2C.05%29%3Bcolor%3A%23b9b1de%3Btransition%3Abackground%20.14s%2Ccolor%20.14s%7D%27%2C%0A%27%23pta-bm%20.x%3Ahover%7Bbackground%3Argba%28255%2C255%2C255%2C.12%29%3Bcolor%3A%23fff%7D%27%2C%0A%27%23pta-bm%20textarea%7Bdisplay%3Ablock%3Bwidth%3Acalc%28100%25%20-%2032px%29%3Bmargin%3A0%2016px%3Bheight%3A40vh%3B%27%2C%0A%27min-height%3A180px%3Bbox-sizing%3Aborder-box%3Bpadding%3A12px%2013px%3Bresize%3Avertical%3Boutline%3Anone%3B%27%2C%0A%27background%3A%230a0c12%3Bcolor%3A%23c9bbff%3Bborder%3A1px%20solid%20%23362a63%3Bborder-radius%3A12px%3B%27%2C%0A%27font%3A13px%2F1.62%20Consolas%2C%22Cascadia%20Mono%22%2Cmonospace%3B%27%2C%0A%27box-shadow%3A0%201px%200%20rgba%28255%2C255%2C255%2C.04%29%20inset%2C0%2010px%2026px%20-18px%20%23000%20inset%3B%27%2C%0A%27transition%3Aborder-color%20.14s%2Cbox-shadow%20.14s%7D%27%2C%0A%27%23pta-bm%20textarea%3A%3Aplaceholder%7Bcolor%3A%23635c86%7D%27%2C%0A%27%23pta-bm%20textarea%3Afocus%7Bborder-color%3A%238b5cf6%3B%27%2C%0A%27box-shadow%3A0%200%200%203px%20rgba%28124%2C58%2C237%2C.22%29%2C0%2010px%2026px%20-18px%20%23000%20inset%7D%27%2C%0A%27%23pta-bm%20.row%7Bdisplay%3Aflex%3Balign-items%3Acenter%3Bgap%3A10px%3Bflex-wrap%3Awrap%3Bpadding%3A12px%2016px%200%7D%27%2C%0A%27%23pta-bm%20button%7Bfont%3Ainherit%7D%27%2C%0A%27%23pta-bm%20.go%7Bdisplay%3Ainline-flex%3Balign-items%3Acenter%3Bgap%3A7px%3Bborder%3A0%3Bcursor%3Apointer%3B%27%2C%0A%27padding%3A9px%2017px%209px%2014px%3Bborder-radius%3A10px%3Bfont-size%3A14px%3Bfont-weight%3A600%3Bcolor%3A%23fff%3B%27%2C%0A%27background%3Alinear-gradient%28180deg%2C%238b5cf6%2C%237134e0%29%3B%27%2C%0A%27box-shadow%3A0%206px%2016px%20-6px%20rgba%28124%2C58%2C237%2C.9%29%2C0%201px%200%20rgba%28255%2C255%2C255%2C.3%29%20inset%3B%27%2C%0A%27transition%3Atransform%20.1s%2Cbox-shadow%20.14s%2Cfilter%20.14s%7D%27%2C%0A%27%23pta-bm%20.go%3Ahover%7Bfilter%3Abrightness%281.08%29%3Bbox-shadow%3A0%208px%2022px%20-6px%20rgba%28124%2C58%2C237%2C1%29%2C%27%2C%0A%270%201px%200%20rgba%28255%2C255%2C255%2C.32%29%20inset%7D%27%2C%0A%27%23pta-bm%20.go%3Aactive%7Btransform%3AtranslateY%281px%29%7D%27%2C%0A%27%23pta-bm%20.go%20svg%7Bopacity%3A.95%7D%27%2C%0A%27%23pta-bm%20.kbd%7Bdisplay%3Ainline-flex%3Balign-items%3Acenter%3Bgap%3A6px%3Bpadding%3A5px%2010px%3B%27%2C%0A%27border-radius%3A8px%3Bbackground%3Argba%28255%2C255%2C255%2C.055%29%3Bborder%3A1px%20solid%20rgba%28255%2C255%2C255%2C.08%29%3B%27%2C%0A%27color%3A%23a9a1cf%3Bfont-size%3A11.5px%3Bwhite-space%3Anowrap%7D%27%2C%0A%27%23pta-bm%20.kbd%20code%7Bfont%3A11.5px%20Consolas%2Cmonospace%3Bcolor%3A%23d6ccff%7D%27%2C%0A%27%23pta-bm%20.hint%7Bcolor%3A%237b749c%3Bfont-size%3A11.5px%3Bmargin-left%3Aauto%3Bwhite-space%3Anowrap%7D%27%2C%0A%27%23pta-bm%20.st%7Bdisplay%3Aflex%3Balign-items%3Acenter%3Bgap%3A7px%3Bmargin%3A10px%2016px%2014px%3Bpadding%3A9px%2012px%3B%27%2C%0A%27border-radius%3A10px%3Bfont-size%3A12px%3Bline-height%3A1.5%3Bcolor%3A%23a49cc6%3B%27%2C%0A%27background%3Argba%28255%2C255%2C255%2C.04%29%3Bborder%3A1px%20solid%20rgba%28255%2C255%2C255%2C.06%29%3B%27%2C%0A%27transition%3Acolor%20.14s%2Cbackground%20.14s%2Cborder-color%20.14s%7D%27%2C%0A%27%23pta-bm%20.st%20svg%7Bflex%3A0%200%2015px%3Bwidth%3A15px%3Bheight%3A15px%7D%27%2C%0A%27%23pta-bm%20.stx%7Bmin-width%3A0%7D%27%2C%0A%27%23pta-bm%20.st.ok%7Bcolor%3A%236ee7b7%3Bbackground%3Argba%2816%2C185%2C129%2C.11%29%3Bborder-color%3Argba%2816%2C185%2C129%2C.3%29%7D%27%2C%0A%27%23pta-bm%20.st.bad%7Bcolor%3A%23fca5a5%3Bbackground%3Argba%28239%2C68%2C68%2C.11%29%3Bborder-color%3Argba%28239%2C68%2C68%2C.3%29%7D%27%2C%0A%27%23pta-bm%20.crd%7Bpadding%3A0%2016px%2012px%3Bfont-size%3A11px%3Bcolor%3A%235e5880%3Bletter-spacing%3A.2px%7D%27%2C%0A%27%23pta-bm%20.crd%20b%7Bcolor%3A%238b83b5%3Bfont-weight%3A600%7D%27%2C%0A%27%40keyframes%20pta-bm-in%7Bfrom%7Bopacity%3A0%7Dto%7Bopacity%3A1%7D%7D%27%2C%0A%27%40keyframes%20pta-bm-pop%7Bfrom%7Bopacity%3A0%3Btransform%3AtranslateY%2810px%29%20scale%28.985%29%7D%27%2C%0A%27to%7Bopacity%3A1%3Btransform%3Anone%7D%7D%27%2C%0A%27%40media%20%28prefers-reduced-motion%3Areduce%29%7B%23pta-bm%2C%23pta-bm%20.box%7Banimation%3Anone%7D%7D%27%0A%5D.join%28%27%27%29%3B%0Aif%20%28%21document.getElementById%28%27pta-bm-style%27%29%29%20%7B%0Avar%20style%20%3D%20document.createElement%28%27style%27%29%3B%0Astyle.id%20%3D%20%27pta-bm-style%27%3B%0Astyle.textContent%20%3D%20CSS%3B%0Adocument.head.appendChild%28style%29%3B%0A%7D%0Avar%20wrap%20%3D%20document.createElement%28%27div%27%29%3B%0Awrap.id%20%3D%20ID%3B%0Awrap.setAttribute%28%27role%27%2C%20%27dialog%27%29%3B%0Awrap.setAttribute%28%27aria-label%27%2C%20%27%E6%8A%8A%E4%BB%A3%E7%A0%81%E5%86%99%E8%BF%9B%20PTA%20%E4%BB%A3%E7%A0%81%E6%A1%86%27%29%3B%0Awrap.innerHTML%20%3D%20%27%3Cdiv%20class%3D%22box%22%3E%27%0A%2B%20%27%3Cdiv%20class%3D%22hd%22%3E%3Cspan%20class%3D%22ico%22%3E%27%20%2B%20svg%28P.paste%2C%2019%29%20%2B%20%27%3C%2Fspan%3E%27%0A%2B%20%27%3Cdiv%20class%3D%22ttl%22%3E%3Cb%3EPTA%20%E9%80%90%E5%AD%97%E8%BE%93%E5%85%A5%3C%2Fb%3E%3Ci%3E%E6%8A%8A%E4%BB%A3%E7%A0%81%E7%B2%98%E8%BF%9B%E6%9D%A5%EF%BC%8C%E5%AE%83%E6%9B%BF%E4%BD%A0%E4%B8%80%E4%B8%AA%E5%AD%97%E4%B8%80%E4%B8%AA%E5%AD%97%E5%86%99%E8%BF%9B%E5%8E%BB%3C%2Fi%3E%3C%2Fdiv%3E%27%0A%2B%20%27%3Cbutton%20class%3D%22x%22%20type%3D%22button%22%20title%3D%22%E5%85%B3%E9%97%AD%EF%BC%88Esc%EF%BC%89%22%3E%27%20%2B%20svg%28P.close%2C%2016%29%20%2B%20%27%3C%2Fbutton%3E%3C%2Fdiv%3E%27%0A%2B%20%27%3Ctextarea%20spellcheck%3D%22false%22%20placeholder%3D%22%E6%8A%8A%E4%BB%A3%E7%A0%81%E7%B2%98%E5%88%B0%E8%BF%99%E9%87%8C%EF%BC%88Ctrl%2BV%EF%BC%89%EF%BC%8C%E7%84%B6%E5%90%8E%E6%8C%89%20Ctrl%2BEnter%22%3E%3C%2Ftextarea%3E%27%0A%2B%20%27%3Cdiv%20class%3D%22row%22%3E%3Cbutton%20class%3D%22go%22%20type%3D%22button%22%3E%27%20%2B%20svg%28P.paste%2C%2015%29%20%2B%20%27%E5%86%99%E8%BF%9B%E4%BB%A3%E7%A0%81%E6%A1%86%3C%2Fbutton%3E%27%0A%2B%20%27%3Cspan%20class%3D%22kbd%22%3E%27%20%2B%20svg%28P.key%2C%2013%29%20%2B%20%27%3Ccode%3ECtrl%3C%2Fcode%3E%2B%3Ccode%3EEnter%3C%2Fcode%3E%3C%2Fspan%3E%27%0A%2B%20%27%3Cspan%20class%3D%22hint%22%3E%E5%8F%AA%E5%86%99%E5%AD%97%EF%BC%8C%E4%B8%8D%E7%82%B9%E4%BF%9D%E5%AD%98%E3%80%81%E4%B8%8D%E7%82%B9%E6%8F%90%E4%BA%A4%3C%2Fspan%3E%3C%2Fdiv%3E%27%0A%2B%20%27%3Cdiv%20class%3D%22st%22%3E%3Cspan%20class%3D%22sic%22%3E%27%20%2B%20svg%28P.info%2C%2015%29%20%2B%20%27%3C%2Fspan%3E%27%0A%2B%20%27%3Cspan%20class%3D%22stx%22%3E%E7%B2%98%E5%AE%8C%E6%8C%89%20Ctrl%2BEnter%20%E7%9B%B4%E6%8E%A5%E5%86%99%3C%2Fspan%3E%3C%2Fdiv%3E%27%0A%2B%20%27%3Cdiv%20class%3D%22crd%22%3Eby%20%3Cb%3E%40ikunkun3%3C%2Fb%3E%20%C2%B7%20MIT%20%C2%B7%20github.com%2Fikunkun3%2Fthunderpig%3C%2Fdiv%3E%27%0A%2B%20%27%3C%2Fdiv%3E%27%3B%0Adocument.body.appendChild%28wrap%29%3B%0Avar%20ta%20%3D%20wrap.querySelector%28%27textarea%27%29%3B%0Avar%20status%20%3D%20wrap.querySelector%28%27.st%27%29%3B%0Avar%20statusIco%20%3D%20wrap.querySelector%28%27.sic%27%29%3B%0Avar%20statusTxt%20%3D%20wrap.querySelector%28%27.stx%27%29%3B%0Afunction%20say%28text%2C%20cls%29%20%7B%0AstatusTxt.textContent%20%3D%20text%3B%0Astatus.className%20%3D%20%27st%27%20%2B%20%28cls%20%3F%20%27%20%27%20%2B%20cls%20%3A%20%27%27%29%3B%0AstatusIco.innerHTML%20%3D%20svg%28cls%20%3D%3D%3D%20%27ok%27%20%3F%20P.ok%20%3A%20cls%20%3D%3D%3D%20%27bad%27%20%3F%20P.bad%20%3A%20P.info%2C%2015%29%3B%0A%7D%0Afunction%20close%28%29%20%7B%20if%20%28wrap.parentNode%29%20wrap.parentNode.removeChild%28wrap%29%3B%20%7D%0Afunction%20findEditor%28%29%20%7B%0Avar%20all%20%3D%20%5B%5D.slice.call%28document.querySelectorAll%28%27.cm-content%5Bcontenteditable%3D%22true%22%5D%27%29%29%3B%0Afor%20%28var%20i%20%3D%200%3B%20i%20%3C%20all.length%3B%20i%2B%2B%29%20%7B%0Avar%20c%20%3D%20all%5Bi%5D%3B%0Aif%20%28c.closest%28%27%23%27%20%2B%20ID%29%29%20continue%3B%0Aif%20%28%21c.getBoundingClientRect%28%29.width%29%20continue%3B%0Aif%20%28c.closest%28%27%5Bclass%2A%3D%22AnswerForm%22%5D%27%29%29%20return%20c%3B%0A%7D%0Avar%20areas%20%3D%20%5B%5D.slice.call%28document.querySelectorAll%28%27%5Bclass%2A%3D%22AnswerForm%22%5D%20textarea%27%29%29%3B%0Afor%20%28var%20j%20%3D%200%3B%20j%20%3C%20areas.length%3B%20j%2B%2B%29%20%7B%0Aif%20%28%21areas%5Bj%5D.closest%28%27%23%27%20%2B%20ID%29%29%20return%20areas%5Bj%5D%3B%0A%7D%0Areturn%20null%3B%0A%7D%0Afunction%20viewOf%28c%29%20%7B%0Aif%20%28c.cmTile%20%26%26%20c.cmTile.view%29%20return%20c.cmTile.view%3B%0Aif%20%28c.cmView%20%26%26%20c.cmView.view%29%20return%20c.cmView.view%3B%0Areturn%20null%3B%0A%7D%0Afunction%20writeByExec%28c%2C%20code%29%20%7B%0Ac.focus%28%29%3B%0Aexecute%28%27selectAll%27%29%3B%0Adocument.execCommand%28%27delete%27%2C%20false%2C%20null%29%3B%0Avar%20lines%20%3D%20code.split%28%27%5Cn%27%29%3B%0Awhile%20%28lines.length%20%3E%201%20%26%26%20lines%5Blines.length%20-%201%5D%20%3D%3D%3D%20%27%27%29%20lines.pop%28%29%3B%0Afor%20%28var%20i%20%3D%200%3B%20i%20%3C%20lines.length%3B%20i%2B%2B%29%20%7B%0Aif%20%28i%29%20%7B%0Aif%20%28%21document.execCommand%28%27insertLineBreak%27%2C%20false%2C%20null%29%29%20%7B%0Adocument.execCommand%28%27insertParagraph%27%2C%20false%2C%20null%29%3B%0A%7D%0A%7D%0Aif%20%28lines%5Bi%5D%29%20document.execCommand%28%27insertText%27%2C%20false%2C%20lines%5Bi%5D%29%3B%0A%7D%0Ac.dispatchEvent%28new%20Event%28%27input%27%2C%20%7B%20bubbles%3A%20true%20%7D%29%29%3B%0Areturn%20c.textContent%20%7C%7C%20%27%27%3B%0A%7D%0Afunction%20execute%28cmd%29%20%7B%0Atry%20%7B%20document.execCommand%28cmd%2C%20false%2C%20null%29%3B%20%7D%20catch%20%28e%29%20%7B%20%20%7D%0A%7D%0Afunction%20norm%28s%29%20%7B%0Areturn%20String%28s%20%7C%7C%20%27%27%29%0A.replace%28%2F%5Cr%5Cn%3F%2Fg%2C%20%27%5Cn%27%29%0A.replace%28%2F%5B%5Cu00a0%5Cu2007%5Cu202f%5D%2Fg%2C%20%27%20%27%29%0A.split%28%27%5Cn%27%29.map%28function%20%28l%29%20%7B%20return%20l.replace%28%2F%5Cs%2B%24%2F%2C%20%27%27%29%3B%20%7D%29%0A.join%28%27%5Cn%27%29.replace%28%2F%5Cn%7B2%2C%7D%24%2F%2C%20%27%5Cn%27%29.replace%28%2F%5E%5Cn%2B%7C%5Cn%2B%24%2Fg%2C%20%27%27%29%3B%0A%7D%0Afunction%20write%28code%29%20%7B%0Acode%20%3D%20String%28code%20%7C%7C%20%27%27%29.replace%28%2F%5Cr%5Cn%3F%2Fg%2C%20%27%5Cn%27%29%3B%0Aif%20%28%21code.trim%28%29%29%20%7B%20say%28%27%E6%A1%86%E9%87%8C%E6%98%AF%E7%A9%BA%E7%9A%84%27%2C%20%27bad%27%29%3B%20return%3B%20%7D%0Avar%20c%20%3D%20findEditor%28%29%3B%0Aif%20%28%21c%29%20%7B%20say%28%27%E6%B2%A1%E6%89%BE%E5%88%B0%E4%BB%A3%E7%A0%81%E6%A1%86%20%E2%80%94%E2%80%94%20%E5%85%88%E6%89%93%E5%BC%80%E4%B8%80%E9%81%93%E7%BC%96%E7%A8%8B%E9%A2%98%EF%BC%88%E5%87%BD%E6%95%B0%E9%A2%98%EF%BC%89%27%2C%20%27bad%27%29%3B%20return%3B%20%7D%0Avar%20view%20%3D%20viewOf%28c%29%3B%0Aif%20%28view%29%20%7B%0Aview.dispatch%28%7B%20changes%3A%20%7B%20from%3A%200%2C%20to%3A%20view.state.doc.length%2C%20insert%3A%20code%20%7D%20%7D%29%3B%0Avar%20got%20%3D%20view.state.doc.toString%28%29%3B%0Aif%20%28norm%28got%29%20%3D%3D%3D%20norm%28code%29%29%20%7B%0Asay%28%27%E2%9C%93%20%E5%B7%B2%E5%86%99%E5%85%A5%20%27%20%2B%20code.length%20%2B%20%27%20%E4%B8%AA%E5%AD%97%E7%AC%A6%EF%BC%88CodeMirror%EF%BC%89%27%2C%20%27ok%27%29%3B%0Areturn%3B%0A%7D%0A%7D%0Avar%20dom%20%3D%20writeByExec%28c%2C%20code%29%3B%0Aif%20%28norm%28dom%29%20%3D%3D%3D%20norm%28code%29%29%20%7B%0Asay%28%27%E2%9C%93%20%E5%B7%B2%E5%86%99%E5%85%A5%20%27%20%2B%20code.length%20%2B%20%27%20%E4%B8%AA%E5%AD%97%E7%AC%A6%EF%BC%88%E7%BC%96%E8%BE%91%E5%99%A8%E5%85%9C%E5%BA%95%EF%BC%89%27%2C%20%27ok%27%29%3B%0Areturn%3B%0A%7D%0Asay%28%27%E5%86%99%E8%BF%9B%E5%8E%BB%E4%BA%86%E4%BD%86%E8%AF%BB%E5%9B%9E%E6%9D%A5%E5%AF%B9%E4%B8%8D%E4%B8%8A%EF%BC%8C%E8%AF%B7%E8%87%AA%E5%B7%B1%E7%9C%8B%E4%B8%80%E7%9C%BC%E4%BB%A3%E7%A0%81%E6%A1%86%EF%BC%88%27%20%2B%20norm%28dom%29.length%20%2B%20%27%2F%27%20%2B%20norm%28code%29.length%20%2B%20%27%EF%BC%89%27%2C%20%27bad%27%29%3B%0A%7D%0Awrap.querySelector%28%27.go%27%29.onclick%20%3D%20function%20%28%29%20%7B%20write%28ta.value%29%3B%20%7D%3B%0Awrap.querySelector%28%27.x%27%29.onclick%20%3D%20close%3B%0Awrap.onclick%20%3D%20function%20%28e%29%20%7B%20if%20%28e.target%20%3D%3D%3D%20wrap%29%20close%28%29%3B%20%7D%3B%0Ata.addEventListener%28%27keydown%27%2C%20function%20%28e%29%20%7B%0Aif%20%28e.key%20%3D%3D%3D%20%27Enter%27%20%26%26%20%28e.ctrlKey%20%7C%7C%20e.metaKey%29%29%20%7B%0Ae.preventDefault%28%29%3B%0Awrite%28ta.value%29%3B%0A%7D%0A%7D%29%3B%0Adocument.addEventListener%28%27keydown%27%2C%20function%20esc%28e%29%20%7B%0Aif%20%28e.key%20%3D%3D%3D%20%27Escape%27%20%26%26%20wrap.parentNode%29%20%7B%0Adocument.removeEventListener%28%27keydown%27%2C%20esc%29%3B%0Aclose%28%29%3B%0A%7D%0A%7D%29%3B%0Ata.focus%28%29%3B%0A%7D%29%28%29%3B%0A%7D%29%28%29" draggable="true" onclick="return false"><svg class="i" viewBox="0 0 24 24" width="19" height="19" fill="none" stroke="currentColor" stroke-width="2" stroke-linecap="round" stroke-linejoin="round" aria-hidden="true"><rect width="8" height="4" x="8" y="2" rx="1" ry="1"/><path d="M16 4h2a2 2 0 0 1 2 2v14a2 2 0 0 1-2 2H6a2 2 0 0 1-2-2V6a2 2 0 0 1 2-2h2"/><path d="m9 14 2 2 4-4"/></svg>写代码</a></p>
   <p>拖完之后，书签栏里会多出一个书签。<b>名字随便改</b>（双击它，或右键 → 修改），名字不影响功能。</p>
   <p style="color:var(--fg3);font-size:13px">拖动的时候鼠标要一直按着，拖到书签栏上再松手。松手早了会变成「打开这个链接」，那就再拖一次。</p>
   <div class="bar">
@@ -148,7 +148,7 @@ li b{color:var(--fg)}
 </div>
 
 <p class="foot"><svg class="i" viewBox="0 0 24 24" width="18" height="18" fill="none" stroke="currentColor" stroke-width="2" stroke-linecap="round" stroke-linejoin="round" aria-hidden="true"><path d="M11.017 2.814a1 1 0 0 1 1.966 0l1.051 5.558a2 2 0 0 0 1.594 1.594l5.558 1.051a1 1 0 0 1 0 1.966l-5.558 1.051a2 2 0 0 0-1.594 1.594l-1.051 5.558a1 1 0 0 1-1.966 0l-1.051-5.558a2 2 0 0 0-1.594-1.594l-5.558-1.051a1 1 0 0 1 0-1.966l5.558-1.051a2 2 0 0 0 1.594-1.594z"/><path d="M20 2v4"/><path d="M22 4h-4"/><circle cx="4" cy="20" r="2"/></svg>　书签面板的源码在 <span class="mono">书签工具.js</span>，可自行审阅</p>
-<p class="foot" style="margin-top:10px">作者 <b style="color:var(--fg2)">ikunkun3</b> · <span class="mono">github.com/ikunkun3/pta-typer</span> · MIT 许可</p>
+<p class="foot" style="margin-top:10px">作者 <b style="color:var(--fg2)">ikunkun3</b> · <span class="mono">github.com/ikunkun3/thunderpig</span> · MIT 许可</p>
 
 </div>
 <script>

diff --git a/新手教程.html b/新手教程.html
@@ -138,7 +138,7 @@
     <p class="lead">两个办法做的是同一件事，选一个就行。</p>
     <table>
       <tr><th style="width:22%"></th><th>方案 A · 油猴脚本</th><th>方案 B · 独立 exe</th></tr>
-      <tr><td>要装几样东西</td><td>两样：Tampermonkey + 脚本</td><td>一样：双击 <b>哇嘞哇嘞大雷猪.exe</b></td></tr>
+      <tr><td>要装几样东西</td><td>两样：Tampermonkey + 脚本</td><td>一样：双击 <b>ThunderPig.exe</b></td></tr>
 <tr><td>窗口会不会挡住题目</td><td>会浮在页面上，可以拖动、点 × 收起</td><td>默认置顶，去掉「置顶」勾或按 Ctrl+T 就缩到后面</td></tr>
       <tr><td>怎么用</td><td>打开题目，面板自己弹出来，粘完点「敲进去」</td><td>粘代码 → 点「开始敲」→ 3 秒内切到浏览器</td></tr>
       <tr><td>要点一下代码框吗</td><td><b>不用</b>，脚本直接写进编辑器</td><td><b>要</b>，先点一下让光标在里面</td></tr>
@@ -269,8 +269,8 @@
 
   <!-- ============ 第 7 步：方案 B ============ -->
   <div class="step">
-    <h2><span class="n">7</span>方案 B：不装油猴，用 exe（哇嘞哇嘞大雷猪）</h2>
-    <p class="lead">双击 <b>哇嘞哇嘞大雷猪.exe</b> 就有窗口，不用装任何扩展，也不用换浏览器。</p>
+    <h2><span class="n">7</span>方案 B：不装油猴，用 exe（ThunderPig）</h2>
+    <p class="lead">双击 <b>ThunderPig.exe</b> 就有窗口，不用装任何扩展，也不用换浏览器。</p>
 
     <div class="see" style="display:block">
       <b>这软件是干什么的</b><br>

diff --git a/test-typer.html b/test-typer.html
@@ -37,7 +37,7 @@ window.addEventListener('error', function (e) {
 
 <!-- 带 cache buster，避免改了脚本刷新还是旧版 -->
 <script>
-  document.write('<script src="pta-typer.user.js?t=' + Date.now() + '"><\/script>');
+  document.write('<script src="thunderpig.user.js?t=' + Date.now() + '"><\/script>');
 </script>
 
 <script>
@@ -91,12 +91,12 @@ window.addEventListener('error', function (e) {
     });
   }
 
-  var A = window.__PTA_TYPER__;
+  var A = window.__THUNDERPIG__;
 
   // ================= 0. 环境 =================
-  ck('脚本已加载（__PTA_TYPER__ 存在）', !!A);
-  ck('面板已创建（#pta-typer）', !!document.getElementById('pta-typer'));
-  ck('入口按钮已创建（#pta-typer-fab）', !!document.getElementById('pta-typer-fab'));
+  ck('脚本已加载（__THUNDERPIG__ 存在）', !!A);
+  ck('面板已创建（#thunderpig）', !!document.getElementById('thunderpig'));
+  ck('入口按钮已创建（#thunderpig-fab）', !!document.getElementById('thunderpig-fab'));
   if (!A) return finish();
 
   // ================= 1. 面板里自己的粘贴要能用 =================
@@ -105,7 +105,7 @@ window.addEventListener('error', function (e) {
   var pasteHits = 0;
   document.addEventListener('paste', function () { pasteHits++; }, true);
 
-  var ta = document.querySelector('#pta-typer textarea');
+  var ta = document.querySelector('#thunderpig textarea');
   ta.value = '';
   ta.focus();
   var dt = new DataTransfer();

diff --git a/docs/exe-ui.source.html b/docs/exe-ui.source.html
@@ -104,12 +104,12 @@
 <body>
 <div class="win">
   <div class="bar">
-    <div class="t">哇嘞哇嘞大雷猪</div>
+    <div class="t">ThunderPig</div>
     <div class="btns"><div>—</div><div>□</div><div class="close">✕</div></div>
   </div>
 
   <div class="head">
-    <div class="name">哇嘞哇嘞大雷猪</div>
+    <div class="name">ThunderPig</div>
     <div class="by">by @ikunkun3</div>
     <div class="q">?</div>
   </div>
@@ -158,7 +158,7 @@ merge2list = mergeTwoLists</pre>
 
   <div class="status">就绪 · 粘代码，或直接点「开始敲」（空着会自动读剪贴板）</div>
   <div class="foot">只往浏览器里敲（会先检查最前面的窗口是不是浏览器，不是就取消）。敲的时候别碰键盘鼠标，会串字。</div>
-  <div class="crd">作者 ikunkun3（@ikunkun3） · github.com/ikunkun3/pta-typer · MIT 许可</div>
+  <div class="crd">作者 ikunkun3（@ikunkun3） · github.com/ikunkun3/thunderpig · MIT 许可</div>
 </div>
 </body>
 </html>

diff --git a/书签工具.js b/书签工具.js
@@ -1,5 +1,5 @@
 // PTA 逐字输入 —— 书签小工具（bookmarklet）
-// 作者：ikunkun3（@ikunkun3）  https://github.com/ikunkun3/pta-typer
+// 作者：ikunkun3（@ikunkun3）  https://github.com/ikunkun3/thunderpig
 // 许可：MIT —— 转载 / 二次修改请保留本段署名。
 // 用法：在 PTA 编程题页面点一下这个书签，弹框，粘代码，Ctrl+Enter。
 // 不装扩展、不联网、不碰剪贴板事件、不点任何按钮。
@@ -131,7 +131,7 @@
     + '<span class="hint">只写字，不点保存、不点提交</span></div>'
     + '<div class="st"><span class="sic">' + svg(P.info, 15) + '</span>'
     + '<span class="stx">粘完按 Ctrl+Enter 直接写</span></div>'
-    + '<div class="crd">by <b>@ikunkun3</b> · MIT · github.com/ikunkun3/pta-typer</div>'
+    + '<div class="crd">by <b>@ikunkun3</b> · MIT · github.com/ikunkun3/thunderpig</div>'
     + '</div>';
   document.body.appendChild(wrap);
 

diff --git a/thunderpig.py b/thunderpig.py
@@ -1,6 +1,6 @@
 #!/usr/bin/env python
 # -*- coding: utf-8 -*-
-"""哇嘞哇嘞大雷猪（独立 exe 版）
+"""ThunderPig · 哇嘞哇嘞大雷猪（独立 exe 版）
 
 把代码一个字一个字敲进 PTA 的代码框里。不装油猴、不装扩展：
 直接向「当前有焦点的窗口」发送真实键盘事件（SendInput），
@@ -13,12 +13,12 @@
     4. 敲完自己去点提交
 
 命令行走查：
-    哇嘞哇嘞大雷猪.exe --selftest [日志路径]
+    ThunderPig.exe --selftest [日志路径]
 
 ────────────────────────────────────────────────────────────
 作者  : ikunkun3  (@ikunkun3)
 主页  : https://github.com/ikunkun3
-项目  : https://github.com/ikunkun3/pta-typer
+项目  : https://github.com/ikunkun3/thunderpig
 许可  : MIT
 ────────────────────────────────────────────────────────────
 这个文件是本项目的核心：Windows SendInput 键盘事件注入 +
@@ -35,7 +35,7 @@ import threading
 import time
 from ctypes import wintypes
 
-APP_TITLE = "哇嘞哇嘞大雷猪"
+APP_TITLE = "ThunderPig"
 VERSION = "1.3.1"
 
 INTRO = (
@@ -44,8 +44,9 @@ INTRO = (
     "不联网 · 不替你点任何按钮 —— 题目还是你自己提交。",
 )
 
-CFG_DIR = "哇嘞哇嘞大雷猪"
-CFG_OLD_DIR = "PTA逐字输入"
+CFG_DIR = "ThunderPig"
+CFG_OLD_DIR = "哇嘞哇嘞大雷猪"
+CFG_OLDER_DIR = "PTA逐字输入"
 
 
 def cfg_path():
@@ -54,15 +55,23 @@ def cfg_path():
 
 
 def cfg_migrate():
-    """把老版本的配置目录搬家过来，别让用户升级一次就丢设置。"""
+    """把老版本的配置目录搬家过来，别让用户升级一次就丢设置。
+
+    历史上有两个旧名字，从近到远依次找：先找「哇嘞哇嘞大雷猪」，
+    再找最早的「PTA逐字输入」。哪个存在就搬哪个，都不存在就什么都不做。
+    """
     try:
         base = os.environ.get("LOCALAPPDATA") or os.path.expanduser("~")
         new = os.path.join(base, CFG_DIR)
-        old = os.path.join(base, CFG_OLD_DIR)
-        if os.path.isdir(new) or not os.path.isdir(old):
+        if os.path.isdir(new):
             return False
-        shutil.move(old, new)
-        return True
+        for name in (CFG_OLD_DIR, CFG_OLDER_DIR):
+            old = os.path.join(base, name)
+            if not os.path.isdir(old):
+                continue
+            shutil.move(old, new)
+            return True
+        return False
     except Exception:
         return False
 
@@ -952,7 +961,7 @@ def run_gui():
                             "为什么会弹「Windows 已保护你的电脑」：它要模拟键盘，被杀毒软件当成可疑程序了。\n"
                             "点「更多信息」→「仍要运行」即可。它不联网、不读文件、代码全在这个 exe 里。\n\n"
                             "作者：ikunkun3（@ikunkun3）\n"
-                            "项目：https://github.com/ikunkun3/pta-typer\n"
+                            "项目：https://github.com/ikunkun3/thunderpig\n"
                             "许可：MIT —— 转载 / 二次修改请保留署名。")
 
     help_btn.bind("<Button-1>", show_help)
@@ -981,7 +990,7 @@ def run_gui():
 
     credit = tk.Label(root, anchor="w", justify="left", wraplength=730, bg="#f7f7fb",
                       fg="#b6bcc9", font=("Microsoft YaHei UI", 9),
-                      text="作者 ikunkun3（@ikunkun3） · github.com/ikunkun3/pta-typer · MIT 许可")
+                      text="作者 ikunkun3（@ikunkun3） · github.com/ikunkun3/thunderpig · MIT 许可")
     credit.pack(fill="x", padx=14, pady=(0, 10))
 
     def _reset():

diff --git a/生成使用说明文档.py b/生成使用说明文档.py
@@ -291,8 +291,8 @@ rich(doc, [("文档版本 ", {}), ("v1.0", {"mono": True}), ("　·　适用：C
      size=9.5, space_before=8, space_after=3)
 rich(doc, [("配套文件：", {"b": True}), ("安装书签.html", {"mono": True}),
            ("、", {}), ("书签工具.js", {"mono": True}),
-           ("、", {}), ("哇嘞哇嘞大雷猪.exe", {"mono": True}),
-           ("、", {}), ("pta-typer.user.js", {"mono": True})], size=9.5, space_after=0)
+           ("、", {}), ("ThunderPig.exe", {"mono": True}),
+           ("、", {}), ("thunderpig.user.js", {"mono": True})], size=9.5, space_after=0)
 
 # ---------- 目录 ----------
 p = para(doc, "目录", size=16, color=DARK, bold=True, space_after=10)
@@ -545,7 +545,7 @@ tip(doc, "warn", "它会先检查前台窗口：",
     "如果最前面的程序不是浏览器（Chrome / Edge / Firefox 等），它会直接取消并提示「一个字都没发出去」。"
     "这是为了防止你切错窗口，把代码敲到别的地方去。")
 
-tip(doc, "info", "名字有点奇怪？", "这个 exe 叫「哇嘞哇嘞大雷猪」，就是随手起的名字，不影响功能。"
+tip(doc, "info", "名字有点奇怪？", "这个 exe 叫 ThunderPig，中文全名「哇嘞哇嘞大雷猪」—— 随手起的名字，不影响功能。"
                                 "第一次运行 Windows 可能弹「已保护你的电脑」，点「更多信息」→「仍要运行」。")
 
 # ---------- 8 ----------

diff --git a/生成安装页.py b/生成安装页.py
@@ -220,7 +220,7 @@ li b{color:var(--fg)}
 </div>
 
 <p class="foot">__I_SPARKLES__　书签面板的源码在 <span class="mono">书签工具.js</span>，可自行审阅</p>
-<p class="foot" style="margin-top:10px">作者 <b style="color:var(--fg2)">ikunkun3</b> · <span class="mono">github.com/ikunkun3/pta-typer</span> · MIT 许可</p>
+<p class="foot" style="margin-top:10px">作者 <b style="color:var(--fg2)">ikunkun3</b> · <span class="mono">github.com/ikunkun3/thunderpig</span> · MIT 许可</p>
 
 </div>
 <script>
